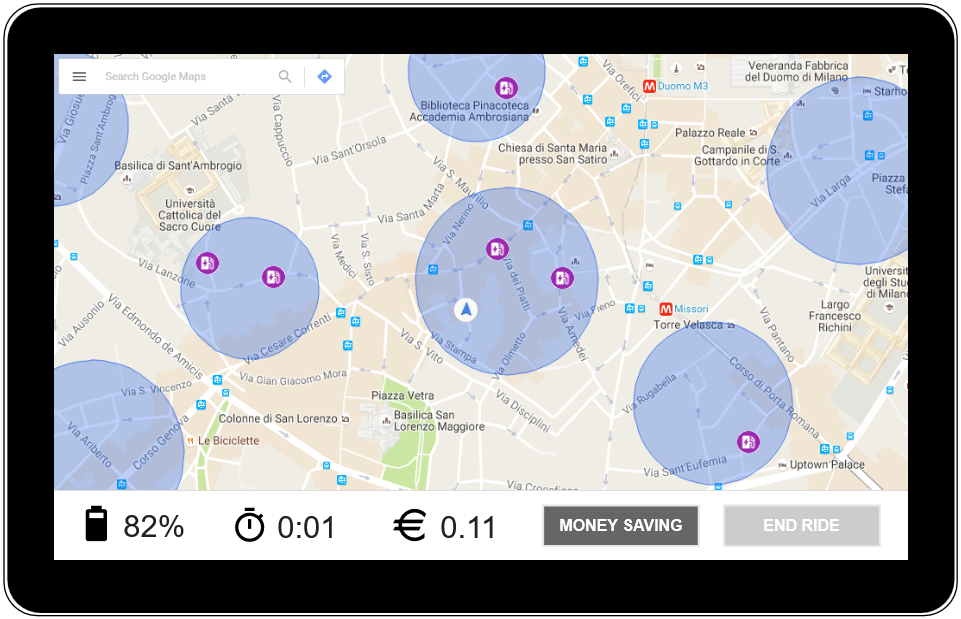
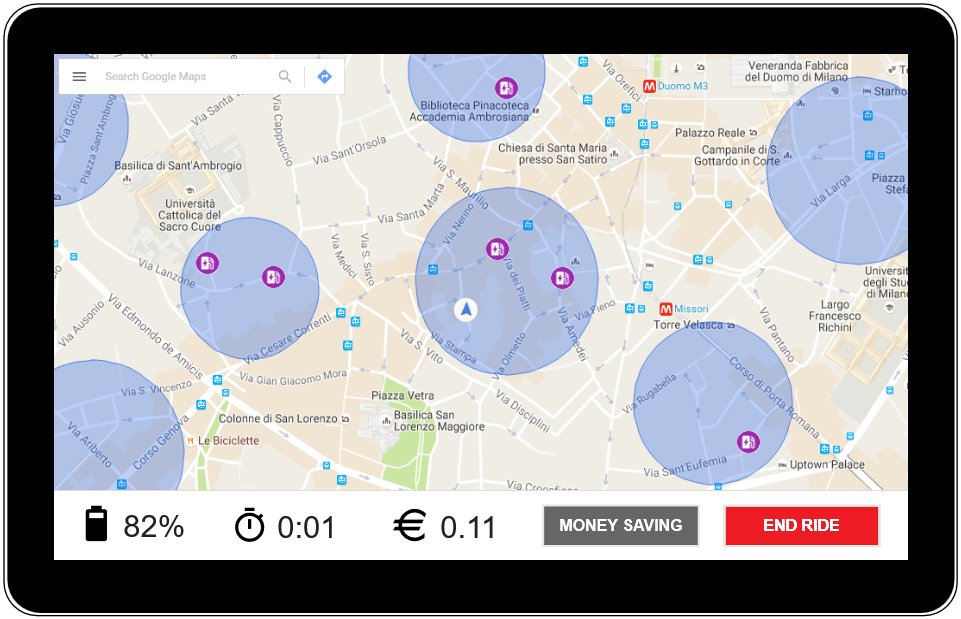
added initial structure of itpd

Changed region(s): [[0.7492, 0.7981, 0.9365, 0.8901]]

diff --git a/src/itpd/main.tex b/src/itpd/main.tex
@@ -26,12 +26,12 @@
 	\end{figure}
 	\vspace{30px}
 	Software Engineering 2 Project: PowerEnJoy \\ \vspace{1em}
-	\textbf{D}esign \textbf{D}ocument
+	\textbf{I}ntegration \textbf{T}est \textbf{P}lan \textbf{D}ocument
 }
 	
 
 \author{Marco Ieni, Francesco Lamonaca, Marco Miglionico\\Politecnico di Milano, A.A. 2016/2017}
-\date{\today\\v1.1}
+\date{\today\\v1.0}
 
 \begin{document}
 \maketitle
@@ -41,35 +41,26 @@
 
 \chapter{Introduction}
 \label{ch:introduction}
-\input{introduction/purpose.tex}
-\input{introduction/scope.tex}
+\input{introduction/revision_history.tex}
+\input{introduction/purpose_scope.tex}
 \input{introduction/definitions.tex}
 \input{introduction/reference_documents.tex}
-\input{introduction/document_structure.tex}
 
-\chapter{Architectural Design}
-\label{ch:architectural_design}
-\input{architectural_design/chapter_descr.tex}
-\input{architectural_design/overview.tex}
-\input{architectural_design/component_view.tex}
-\input{architectural_design/deployment_view.tex}
-\input{architectural_design/runtime_view.tex}
-\input{architectural_design/component_interfaces.tex}
-\input{architectural_design/styles.tex}
-\input{architectural_design/other.tex}
+\chapter{Integration Strategy}
+\label{ch:integration_strategy}
+\input{integration_strategy/entry_criteria.tex}
+\input{integration_strategy/elements.tex}
+\input{integration_strategy/integration.tex}
+\input{integration_strategy/sequence.tex}
 
-\chapter{Algorithm Design}
-\label{ch:algorithm_design}
-\input{algorithms/algorithms.tex}
+\chapter{Individual Steps and Test Description}
+\label{ch:individual_steps}
 
-\chapter{User Interface Design}
-\label{ch:ui_design}
-\input{ui_design/user_experience.tex}
-\input{ui_design/car_tablet.tex}
+\chapter{Tools and Test Equipment Required}
+\label{ch:tools}
 
-\chapter{Requirements Traceability}
-\label{ch:requirements_traceability}
-\input{requirements_traceability/requirements_traceability.tex}
+\chapter{Program Stubs and Test Data Required}
+\label{ch:program_stubs}
 
 \appendix
 \chapter{Appendix}

diff --git a/src/dd/requirements_traceability/requirements_traceability.tex b/src/dd/requirements_traceability/requirements_traceability.tex
@@ -23,7 +23,7 @@ R.6.3 & The system must be able to unlock the cars remotely. & CMP: Car Manager 
 R.6.4 & The system must be notified when the user enter inside the car. & CMP: Car Manager & The function \textit{void unlockCar(String plate)} does it. \\ \hline
 R.6.5 & The system must be able to lock the car again if the user doesn't enter inside the car within 3 minutes. & CMP: Car Manager & The Car Manager does it. \\ \hline
 R.7.1 & The system must be able to calculate the current fee with respect to the amount of money per minute defined by the company. & CMP: Fee Manager & The Fee Manager does it. \\ \hline
-R.7.2 & The system must be able to show on the tablet present on the car the current fee that the user has to pay. & Fee Manager & The function \textit{float getFeeWithVariation(String ID)} can send the current fee to the car tablet. \\ \hline
+R.7.2 & The system must be able to show on the tablet present on the car the current fee that the user has to pay. & CMP: Fee Manager & The function \textit{float getFeeWithVariation(String ID)} can send the current fee to the car tablet. \\ \hline
 R.8.1 & The system must be able to show to the user the position of the power grid station. & CMP: Safe Area Manager & The function \textit{List \textless Position\textgreater{} getPowerGridStations()} does it. \\ \hline
 R.8.2 & The system must be able to show to the user the number of free plugs in every power grid station. & CMP: Safe Area Manager & The function \textit{int getFreePlugsNumber(Position powerGridStationCenter)} does it. \\ \hline
 R.9.1 & The system must allow only the users that has not been banned to search for a car. & CMP: Car Manager & The Car Manager does this check. \\ \hline

diff --git a/src/dd/ui_design/car_tablet.tex b/src/dd/ui_design/car_tablet.tex
@@ -23,7 +23,7 @@ When the user enters the car, the screen in figure \ref{fig:car_login} is what h
 
 If the authentication phase is successful, then on the tablet appears the Main Page. The mock-up of this screen is presented in figure \ref{fig:car_main}. Here you can navigate through the map, where you can find also the safe areas and the power grid stations. In the bar at the bottom, you can find the current percentage of the battery level of the car, the time since the reservation started, the current fee and the buttons to activate the money saving option and to end the ride.
 
-In this picture the money saving option is off and the end ride is disabled because the user is not in a safe area. When the user is in a safe area the button becomes red. Using the search bar, the user can select a destination and set the navigation.
+In this picture the money saving option is off and the end ride bottom is enabled because the user is in a safe area and so he/she can park and leave the car. When the user is not in a safe area the button becomes grey, to indicate that it is disabled. Using the search bar, the user can select a destination and set the navigation.
 
 If he/she do so, the screen of the tablet will be something similar to figure \ref{fig:car_ride}. In this example the money saving button is blue, so it means that this option is activated.
 

diff --git a/src/itpd/appendix/appendix.tex b/src/itpd/appendix/appendix.tex
@@ -1,0 +1,17 @@
+\section{Used software and tools}
+\begin{itemize}
+    \item \LaTeX\ \footnote{\url{http://https://www.latex-project.org/}}, for typesetting this document.
+    \item Texmaker\footnote{\url{http://www.xm1math.net/texmaker/}}, for the writing of this document.
+    \item GitHub\footnote{\url{https://github.com/marcomiglionico94/Software-Engineering-2-Project}} for version control and distributed work.
+   \item GitHub desktop\footnote{\url{https://desktop.github.com/}} used to collaborate in the team and to keep track of the changes. 
+\end{itemize}
+
+\section{Work hours}
+The statistics about commits and code contribution are available on the GitHub repository of the project\footnote{\url{https://github.com/marcomiglionico94/Software-Engineering-2-Project}}.
+
+These are our estimation of the work hours spent on this project:
+\begin{itemize}
+    \item Marco Ieni: ... hours
+    \item Francesco Lamonaca: ... hours
+    \item Marco Miglionico: ... hours
+\end{itemize}

diff --git a/src/itpd/integration_strategy/elements.tex b/src/itpd/integration_strategy/elements.tex
@@ -1,0 +1,2 @@
+\section{Elements to be Integrated}
+% Identify the components to be integrated, refer to your design document to identify such components in a way that is consistent with your design.

diff --git a/src/itpd/integration_strategy/integration.tex b/src/itpd/integration_strategy/integration.tex
@@ -1,0 +1,2 @@
+\section{Integration Testing Strategy}
+% Describe the integration testing approach (top-down, bottom-up, functional groupings, etc.) and the rationale for the choosing that approach.

diff --git a/src/itpd/integration_strategy/entry_criteria.tex b/src/itpd/integration_strategy/entry_criteria.tex
@@ -1,0 +1,2 @@
+\section{Entry Criteria}
+% Specify the criteria that must be met before integration testing of specific elements may begin (e.g., functions must have been unit tested).

diff --git a/src/itpd/integration_strategy/sequence.tex b/src/itpd/integration_strategy/sequence.tex
@@ -1,0 +1,1 @@
+\section{Sequence of Component/Function Integration}

diff --git a/src/itpd/introduction/definitions.tex b/src/itpd/introduction/definitions.tex
@@ -1,0 +1,1 @@
+\section{List of Definitions and Abbreviations}

diff --git a/src/itpd/introduction/reference_documents.tex b/src/itpd/introduction/reference_documents.tex
@@ -1,0 +1,1 @@
+\section{Reference Documents}

diff --git a/src/itpd/introduction/purpose_scope.tex b/src/itpd/introduction/purpose_scope.tex
@@ -1,0 +1,1 @@
+\section{Purpose and Scope}

diff --git a/src/itpd/introduction/revision_history.tex b/src/itpd/introduction/revision_history.tex
@@ -1,0 +1,1 @@
+\section{Revision History}
